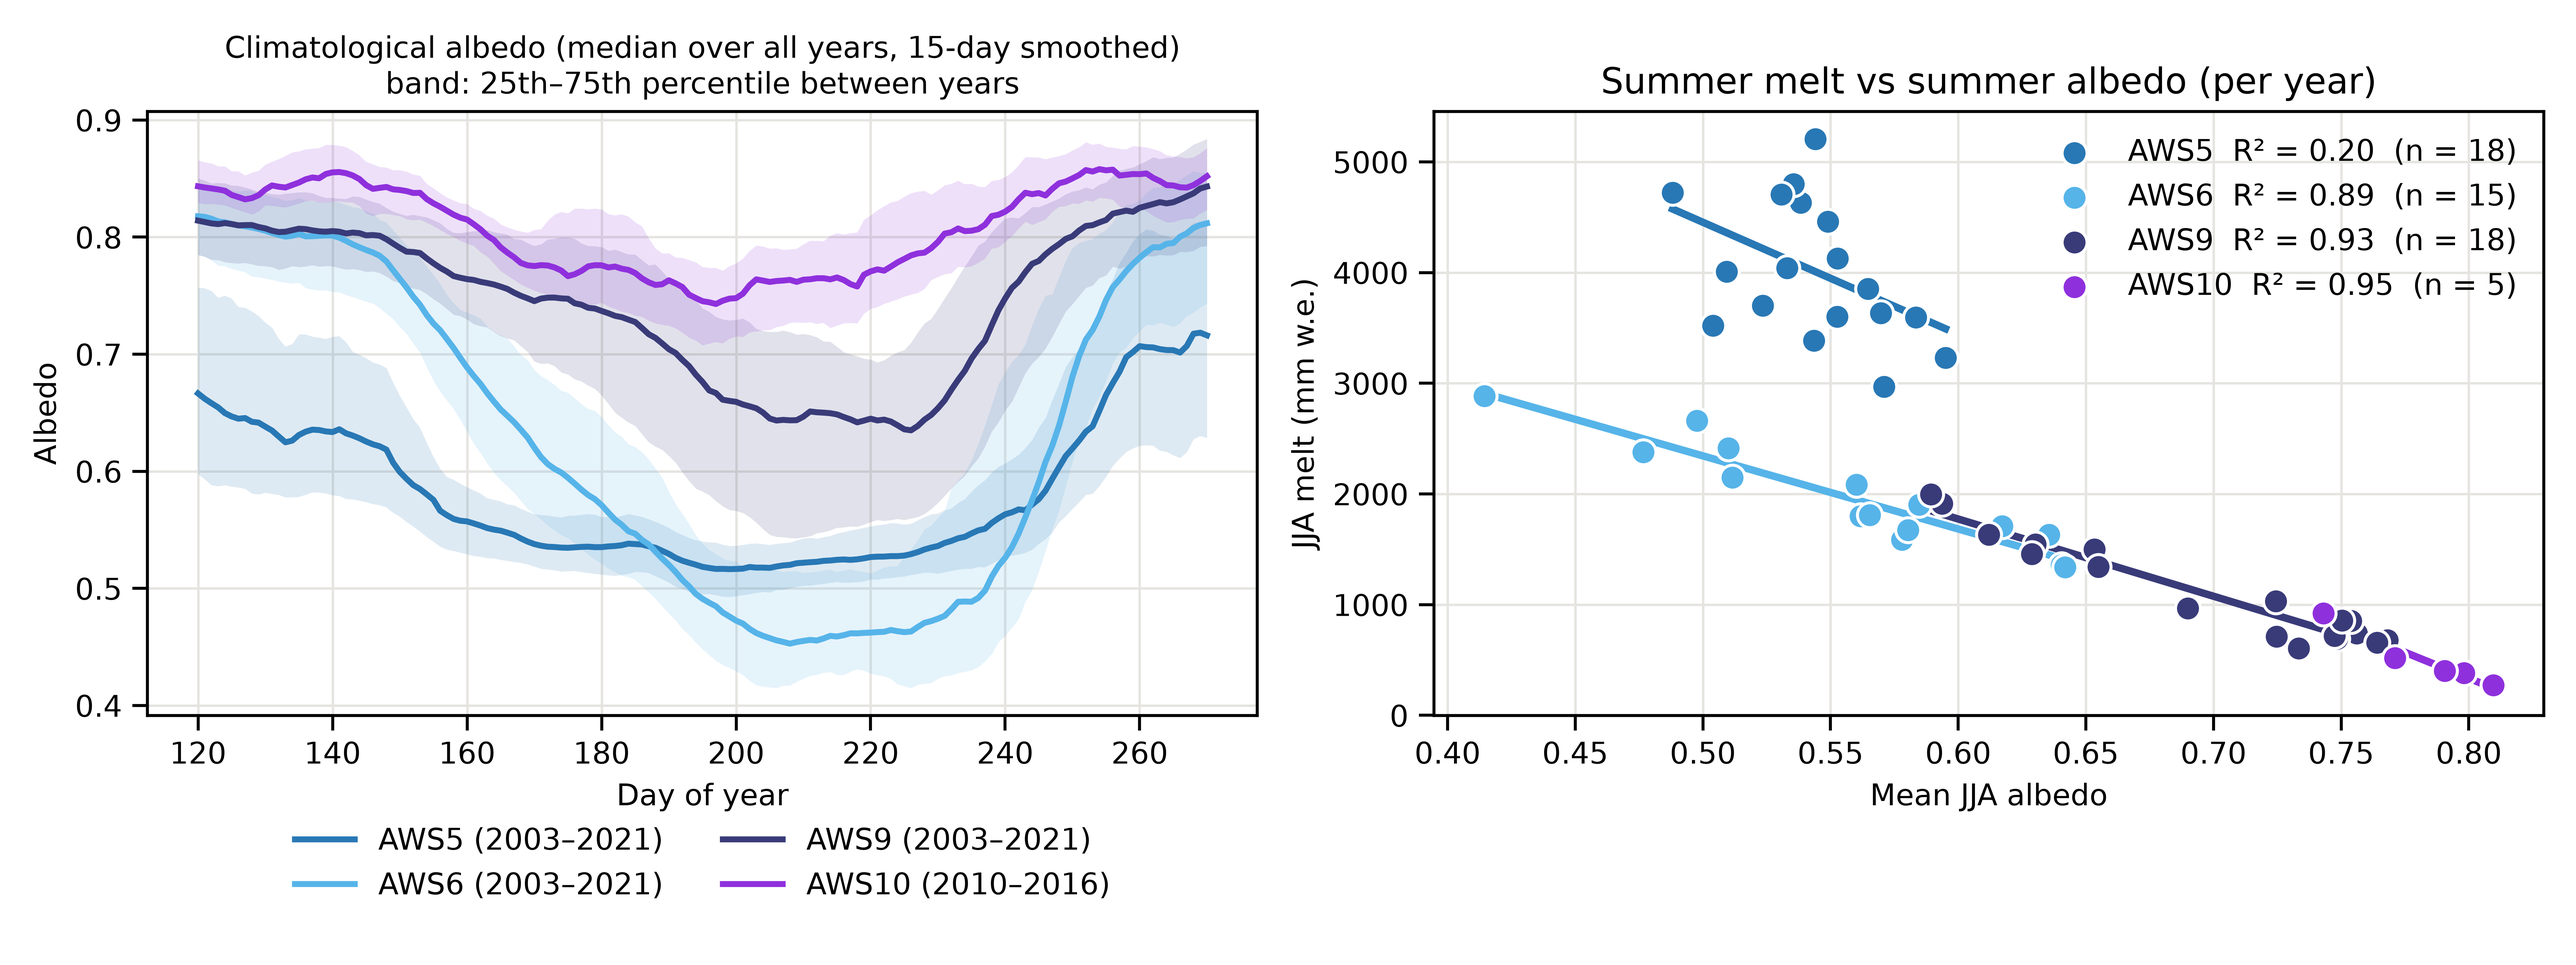
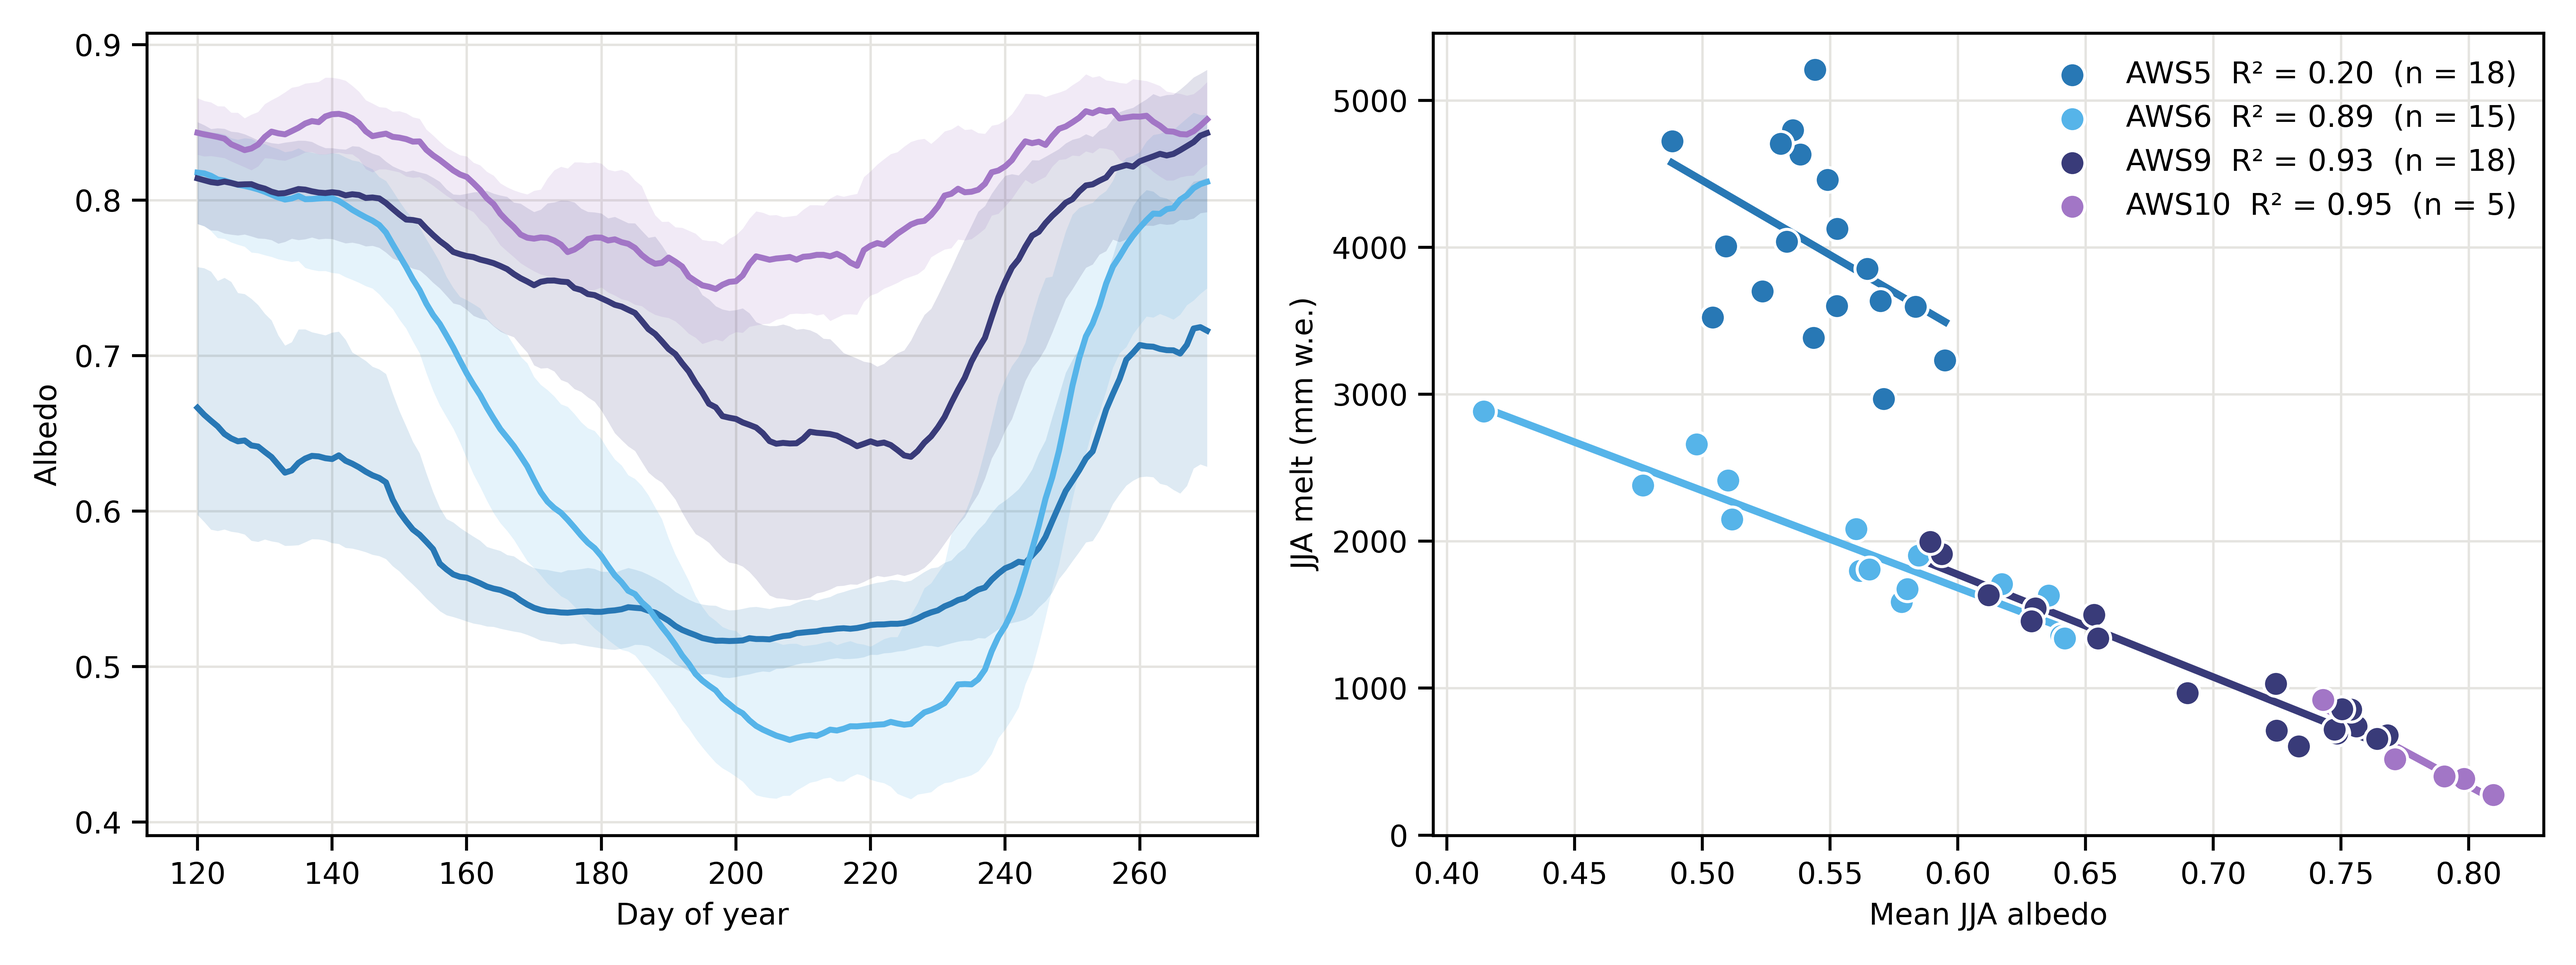
final plot changes
final plot changes

diff --git a/code/uncertainty.py b/code/uncertainty.py
@@ -305,9 +305,43 @@ def plot_correlations(years, cor, out):
     plt.close(fig)
 
 
+def plot_correlation_table(cor, out, stations=tuple(mc.AWS_STATIONS)):
+    """De correlatietabel uit resultaten.md als figuur (alleen type 0): r per station.
+
+    Elke cel bevat een balk vanuit het midden: naar rechts bij positieve r, naar links bij
+    negatieve r, lengte |r|. Het getal staat aan de lege kant.
+    """
+    from matplotlib.patches import Rectangle
+    vars_ = ["SWnet", "LWnet", "SHF", "LHF", "albedo"]
+    labels = [r"SW$_\mathrm{net}$", r"LW$_\mathrm{net}$", "SHF", "LHF", "Albedo"]
+    c = cor[cor["subset"] == "alleen type 0"].set_index(["station", "variabele"])
+    fmt = lambda x: f"{x:.2f}".replace("-", "−")
+    pad, half = 0.06, 0.44                  # celrand en halve breedte van de balkruimte
+    fig, ax = plt.subplots(figsize=(8, 4))
+    for k, st in enumerate(stations):
+        d = c.loc[st].reindex(vars_)
+        mid = k + 0.5
+        for yi, v in enumerate(vars_):
+            r = d.loc[v, "r"]
+            ax.add_patch(Rectangle((k + pad / 2, yi + 0.06), 1 - pad, 0.88, facecolor="#f3f2ef", lw=0))
+            ax.add_patch(Rectangle((mid, yi + 0.22), r * half, 0.56, facecolor=mc.COLORS[st], lw=0))
+            ax.text(mid - np.sign(r) * 0.06, yi + 0.5, fmt(r), ha="right" if r > 0 else "left",
+                    va="center", fontsize=12, color="#2b2a27", weight="bold")
+        ax.plot([mid, mid], [0.06, len(vars_) - 0.06], color="#52514e", lw=0.8)
+        ax.text(mid, -0.12, f"{st}\n(n = {int(d['n'].max())})", ha="center", va="bottom", fontsize=12)
+    for yi, lab in enumerate(labels):
+        ax.text(-0.06, yi + 0.5, lab, ha="right", va="center", fontsize=12)
+    ax.set_xlim(-0.02, len(stations) + 0.02)
+    ax.set_ylim(len(vars_) + 0.02, -0.75)
+    ax.axis("off")
+    fig.tight_layout()
+    fig.savefig(out, dpi=600, bbox_inches="tight")
+    plt.close(fig)
+
+
 def plot_sensitivity(sens, summary, out):
     params = list(SENSITIVITY)
-    fig, axes = plt.subplots(1, len(mc.AWS_STATIONS), figsize=(13, 5.1), sharey=True)
+    fig, axes = plt.subplots(1, len(mc.AWS_STATIONS), figsize=(11, 4), sharey=True)
     for ax, st in zip(axes, mc.AWS_STATIONS):
         s = sens[sens["station"] == st].set_index("parameter").reindex(params)
         base = summary.loc[st, "jja_smelt_mm"]
@@ -344,7 +378,7 @@ def plot_sensitivity(sens, summary, out):
     # één x-label, gecentreerd onder de vier panelen (niet onder de hele figuur)
     left, right = axes[0].get_position().x0, axes[-1].get_position().x1
     fig.text((left + right) / 2, 0.015, "change in JJA melt (%)", ha="center", fontsize=12)
-    fig.savefig(out, dpi=150)
+    fig.savefig(out, dpi=600)
     plt.close(fig)
 
 
@@ -397,6 +431,7 @@ def main():
           .reindex(columns=mc.AWS_STATIONS).to_string())
 
     plot_correlations(years, cor, out / "correlations.png")
+    plot_correlation_table(cor, out / "correlations_paper.png")
 
     gr = gradient_ci(years)
     gr.round(3).to_csv(out / "gradient_ci.csv")

diff --git a/code/elevation_albedo.py b/code/elevation_albedo.py
@@ -457,9 +457,6 @@ def plot_albedo_climatology(clims, years, out):
         ax1.plot(c.index, c.values, lw=2, color=mc.COLORS[st], label=f"{st} ({c_full.attrs.get('period', '?')})")
     ax1.set_xlabel("Day of year")
     ax1.set_ylabel("Albedo")
-    ax1.set_title("Climatological albedo (median over all years, 15-day smoothed)\n"
-                  "band: 25th–75th percentile between years", fontsize=10)
-    ax1.legend(frameon=False, ncol=2, loc="upper center", bbox_to_anchor=(0.5, -0.14))
     mc.style(ax1)
     for st in mc.AWS_STATIONS:
         d = years[years["station"] == st]
@@ -471,7 +468,6 @@ def plot_albedo_climatology(clims, years, out):
             ax2.plot(x, r["intercept"] + r["slope"] * x, color=mc.COLORS[st], lw=2.5, zorder=2)
     ax2.set_xlabel("Mean JJA albedo")
     ax2.set_ylabel("JJA melt (mm w.e.)")
-    ax2.set_title("Summer melt vs summer albedo (per year)")
     ax2.legend(frameon=False)
     style(ax2)
     fig.tight_layout()
